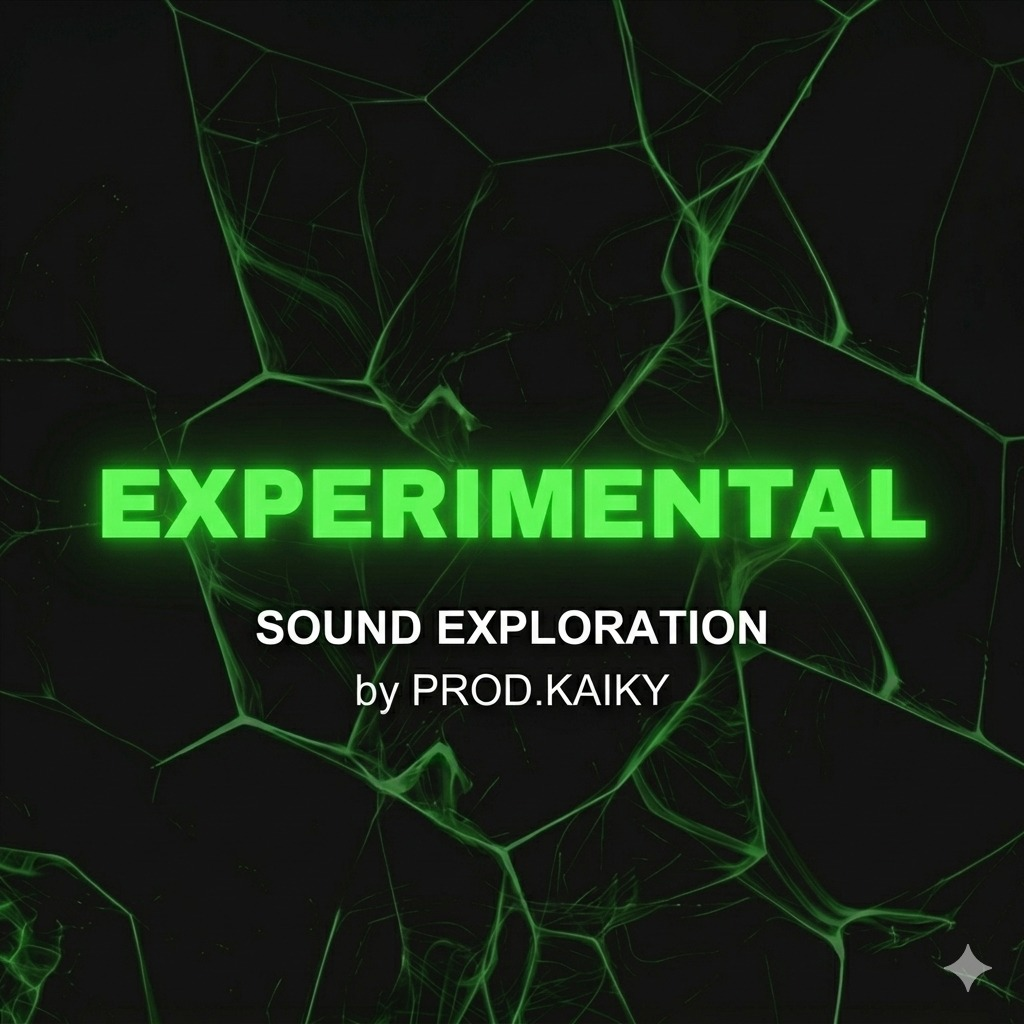
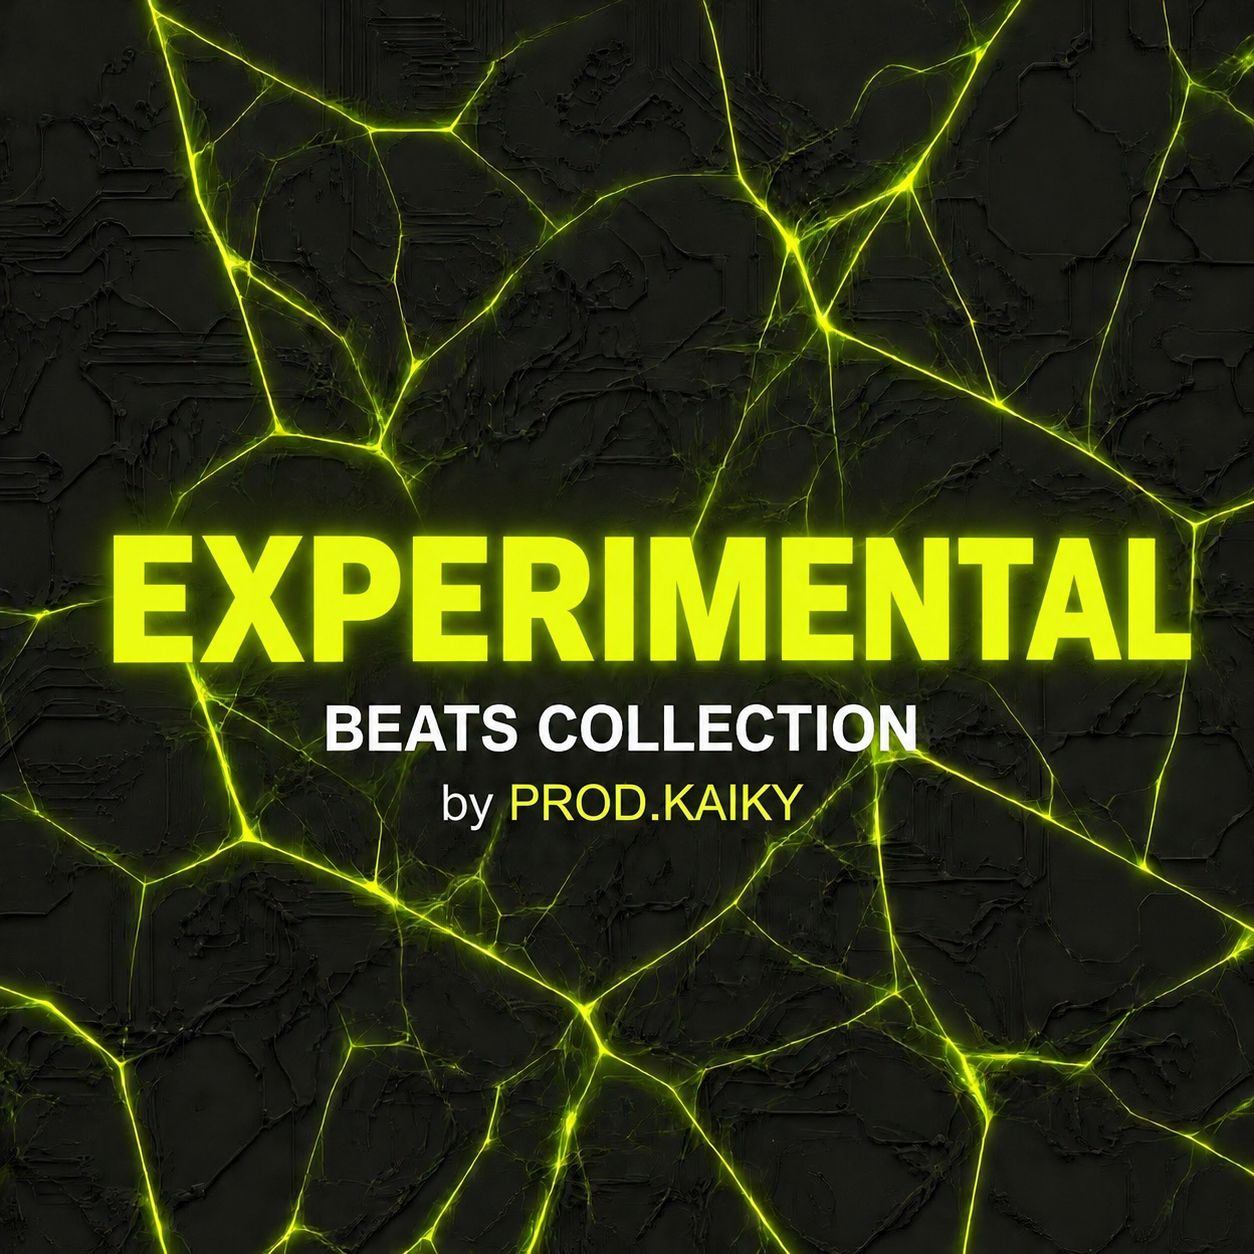
correção de bugs

diff --git a/corpo/playlists.html b/corpo/playlists.html
@@ -8,65 +8,48 @@
     <link rel="stylesheet" href="https://cdnjs.cloudflare.com/ajax/libs/font-awesome/6.0.0/css/all.min.css">
 </head>
 <body style="background-color: #0a0a0a;"> 
-<header>
+<header class="main-header">
     <!-- ============================================================
-   TOPO (HEADER)
+   TOPO (HEADER) - ESTRUTURA MODERNA FLEXBOX
    ============================================================ -->
-
-    <!-- PERFIL E INFORMAÇÕES-->
-    <div class="perfil">
-        <img src="perfilVet.jpeg" alt="Foto do Produtor" class="foto-circulo">
-        <div class="info-produtor">
-            <div class="nome-verificado">
-            <h2 class="logo-text">Prod.<span>KAIKY</span></h2>                
-            <i class="fas fa-check-circle verificado"></i></div>
-                <!-- <span class="usuario">@prod.kaiky</span> -->
-                <p class="bio">Beatmaker direto de Barreiro, Belo Horizonte, MG. 
-<br>Desenvolvo produções exclusivas elevando o nível da cena mineira através da minha arte.</p>
+    <div class="header-top-left">
+        <div class="header-top-right">
         </div>
     </div>
-    <!-- Estatisticas-->
+
+    <div class="header-right-group">
+        <div class="mini-player-header">
+            <div class="player-controls">
+                <i class="fas fa-step-backward" onclick="musicaAnterior()"></i>
+                <i class="fas fa-play-circle play-main" id="btn-play-header" onclick="togglePlay()"></i>
+                <i class="fas fa-step-forward" onclick="proximaMusica()"></i>
+            </div>
+            <div class="player-track">
+                <div class="track-name-container">
+                    <span class="track-name" id="current-track-name">Selecione um Beat</span>
+                </div>
+                <div class="progress-bar">
+                    <div class="progress-fill" id="progress-fill"></div>
+                </div>
+                <div class="time-info" style="display: flex; justify-content: space-between; font-size: 10px; color: #aaa; margin-top: 5px;">
+                    <span id="current-time">0:00</span>
+                    <span id="duration">0:00</span>        
+                </div>
+            </div>
+        </div>
+
         <div class="stats">
             <div class="stat-item">
-                <strong>50</strong>
+                <strong>0</strong>
                 <span>Beats</span>
             </div>
             <div class="stat-item">
-                <strong>200</strong>
+                <strong>0</strong>
                 <span>Plays</span>
             </div>
-    </div>
-<div class="mini-player">
- <div class="player-controls">
-    <i class="fas fa-step-backward" onclick="musicaAnterior()"></i>
-    <i class="fas fa-play-circle play-main" id="btn-play-header" onclick="togglePlay()"></i>
-    <i class="fas fa-step-forward" onclick="proximaMusica()"></i>
-</div>
-<div class="player-track">
-    <div class="track-name-container">
-        <span class="track-name" id="current-track-name">Selecione um Beat</span>
-    </div>
+        </div>
 
-    <div class="progress-bar">
-        <div class="progress-fill" id="progress-fill"></div>
     </div>
-
-    <div class="time-info" style="display: flex; justify-content: space-between; font-size: 10px; color: #aaa; margin-top: 5px;">
-        <span id="current-time">0:00</span>
-        <span id="duration">0:00</span>        
-    </div>
-</div>
-</div>
-
-
-    <!--Espaço para redes socais-->
-<div class="redes">
-    <div class="media-icons">
-        <a href="https://www.tiktok.com/@nome_do_usuario" target="_blank"><i class="fab fa-tiktok"></i></a>
-        <a href="https://www.instagram.com/prod.kaiky?igsh=MXY2cm4yNmRxNzd6cQ%3D%3D&utm_source=qr" target="_blank"><i class="fab fa-instagram"></i></a>
-        <a href="https://youtube.com/@prod_kaiky?si=hskkdHjllNHPxORh" target="_blank"><i class="fab fa-youtube"></i></a>
-    </div>
-</div>
 </header>
 
     <nav class="navbar">
@@ -162,8 +145,12 @@
 
 <script src="script.js"></script>
 <script>
-    // Inicializa o sistema de playlists
-    inicializarPlaylists();
+    // Inicializa o sistema de playlists e stats
+    window.addEventListener('load', function() {
+        inicializarPlaylists();
+        atualizarStats();
+        atualizarContadoresPlaylists();
+    });
 
     // Atualiza os contadores de playlists dinamicamente
     function atualizarContadoresPlaylists() {
@@ -191,11 +178,6 @@
             }
         });
     }
-
-    // Atualiza os contadores ao carregar a página
-    window.addEventListener('load', function() {
-        atualizarContadoresPlaylists();
-    });
 </script>
 
     </body>

diff --git a/corpo/style.css b/corpo/style.css
@@ -21,7 +21,7 @@
     /* ALTERAÇÃO 2: Fundo preto puro caso a tela do usuário seja muito larga */
     background-color: #0b0b0b; 
 
-    background-image: url('prodkaiky2.png');
+    background-image: url('prodkaiky2.jpeg');
     
     /* ALTERAÇÃO 3: 'cover' ajustado com o 'center' faz os circuitos das laterais reaparecerem */
     background-size: cover; 
@@ -45,15 +45,20 @@
 /* CONTAINER QUE SEGURA STATS E REDES JUNTOS NA DIREITA */
 .header-right-group {
     display: flex;
-    margin: 0;
     align-items: center;
+    gap: 15px; /* Espaço entre os números e as redes sociais */
     gap: 20px; /* Espaço entre os números e os ícones das redes */
+    margin-left: auto; /* Empurra o grupo para a direita */
+    margin: 90px 0 0 0; /* Ajuste fino para alinhar melhor com a maquete */
+
 }
 
 /* ESTILIZAÇÃO DOS SEUS STATS (NÚMEROS) */
 .stats {
     display: flex;
     gap: 30px;
+    position: absolute;
+    left: 180px; /* Ajuste fino para alinhar melhor com a maquete */
 }
 
 .stat-item {
@@ -491,7 +496,7 @@ SEÇÕES BEATS
     bottom: 0;
     left: 0;
     right: 0;
-    background: linear-gradient(180deg, transparent 0%, rgba(10, 10, 10, 0.95) 50%);
+    background: linear-gradient(180deg, transparent 0%, rgba(10, 10, 10, 0.3) 100%);
     padding: 30px 15px 15px;
     text-align: left;
 }
@@ -518,7 +523,7 @@ SEÇÕES BEATS
 
 /* O Card (Sempre Preto) */
 .beat-card {
-    background-color: #000; /* Fundo totalmente preto */
+    background-color: transparent; /* Fundo transparente */
     border-radius: 12px;
     padding: 15px;
     transition: background-color 0.3s ease;
@@ -531,7 +536,7 @@ SEÇÕES BEATS
     position: relative;
     width: 100%;
     aspect-ratio: 1/1;
-    background-color: #111; /* Cor de fundo enquanto a imagem não aparece */
+    background-color: transparent;
     border-radius: 8px;
     margin-bottom: 15px;
     overflow: hidden;
@@ -542,7 +547,7 @@ SEÇÕES BEATS
     width: 100%;
     height: 100%;
     object-fit: cover;
-    opacity: 0; /* Fica invisível */
+    opacity: 1; /* Visível sempre */
     transition: opacity 0.4s ease; /* Transição suave */
 }
 
@@ -996,4 +1001,91 @@ SEÇÕES BEATS
     display: flex !important;
     justify-content: center; /* Centraliza na horizontal morto */
     align-items: center;
+    cursor: pointer;
+    transition: opacity 0.3s ease;
+}
+
+.play-overlay i {
+    cursor: pointer;
+    font-size: 3rem;
+    color: #ccff00;
+    transition: all 0.3s ease;
+}
+
+.play-overlay:hover i {
+    transform: scale(1.15);
+    text-shadow: 0 0 20px rgba(204, 255, 0, 0.8);
+}
+
+/* =========================================
+   BOTÕES DE FILTRO
+   ========================================= */
+.filter-btn {
+    background-color: transparent;
+    border: 2px solid #333;
+    color: #aaa;
+    padding: 10px 20px;
+    border-radius: 8px;
+    font-size: 0.9rem;
+    font-weight: bold;
+    cursor: pointer;
+    transition: all 0.3s ease;
+    text-transform: uppercase;
+    letter-spacing: 1px;
+}
+
+.filter-btn:hover {
+    border-color: #ccff00;
+    color: #ccff00;
+}
+
+.filter-btn.active {
+    background-color: #ccff00;
+    border-color: #ccff00;
+    color: #000;
+}
+
+/* =========================================
+   INFORMAÇÕES DO CARD MINI
+   ========================================= */
+.track-info-mini {
+    padding: 12px 0;
+    display: flex;
+    flex-direction: column;
+    gap: 10px;
+}
+
+.track-name-text {
+    color: #ffffff;
+    font-size: 0.95rem;
+    font-weight: 600;
+    text-align: center;
+    margin: 0;
+    display: block;
+    white-space: nowrap;
+    overflow: hidden;
+    text-overflow: ellipsis;
+}
+
+/* =========================================
+   BOTÃO DE COMPRA (PREÇO)
+   ========================================= */
+.btn-buy-green {
+    background-color: #ccff00;
+    color: #000;
+    border: none;
+    padding: 10px 16px;
+    border-radius: 6px;
+    font-size: 0.85rem;
+    font-weight: bold;
+    cursor: pointer;
+    transition: all 0.3s ease;
+    text-transform: uppercase;
+    letter-spacing: 0.5px;
+}
+
+.btn-buy-green:hover {
+    background-color: #b8e600;
+    box-shadow: 0 0 15px rgba(204, 255, 0, 0.5);
+    transform: scale(1.05);
 }

diff --git a/corpo/musicas.html b/corpo/musicas.html
@@ -72,5 +72,12 @@
 
     <script src="https://www.youtube.com/iframe_api"></script>
     <script src="script.js"></script>
+    
+    <script>
+        // Inicializa a renderização de beats quando a página carrega
+        window.addEventListener('load', function() {
+            renderizarTodosBeats('todos');
+        });
+    </script>
 </body>
 </html>
